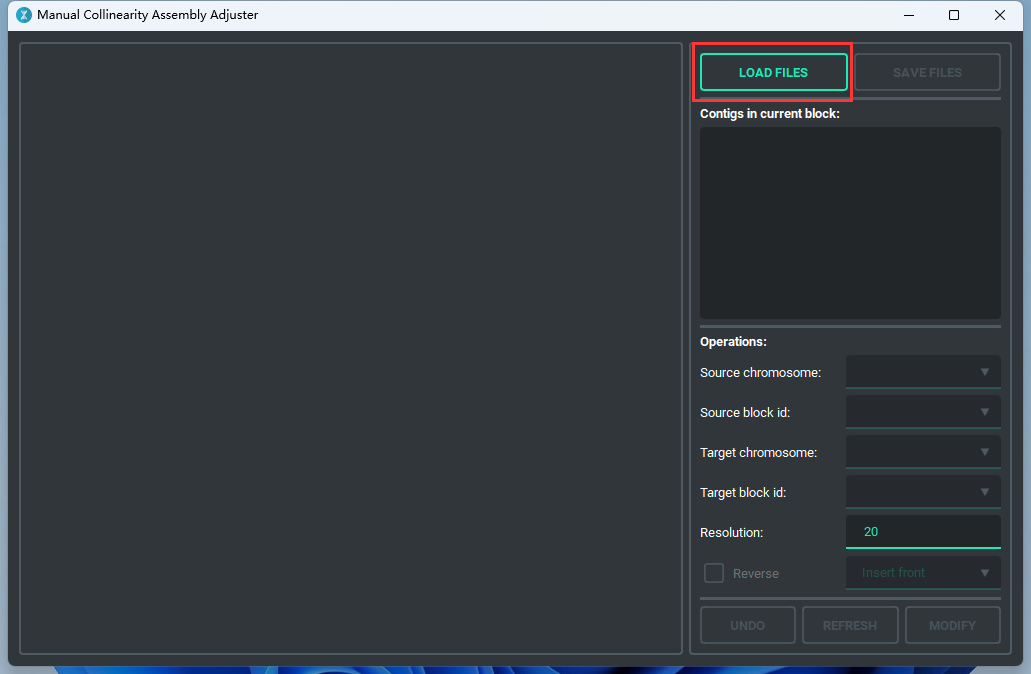
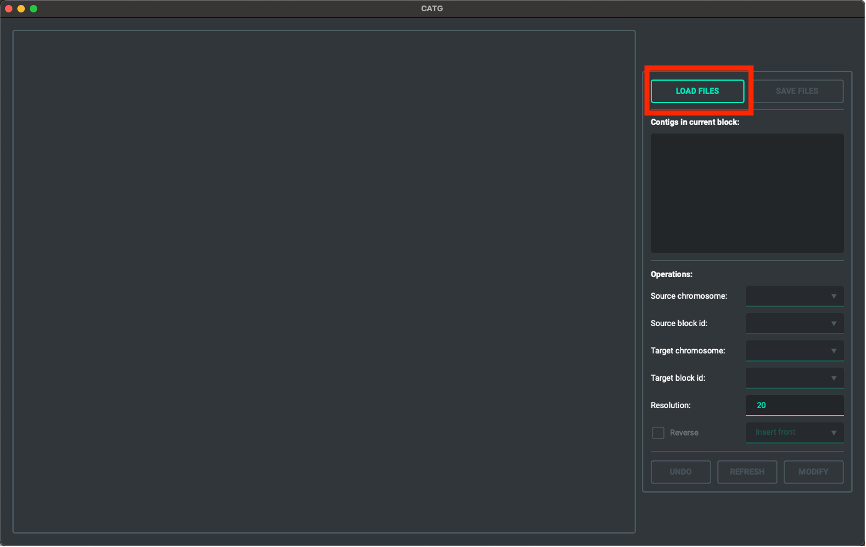
Update README.md

Changed region(s): [[0.0, 0.0, 1.0, 1.0]]

diff --git a/README.md b/README.md
@@ -55,7 +55,7 @@ You can resize the collinearity figure with wheel, and use mouse to drag it.
 
 ## Example
 
-### Step1. Open MCAAG and click "LOADFILES"
+### Step1. Open CATG and click "LOADFILES"
 ![](Manual/Step1.LoadFiles.png)
 
 ### Step2. Select files
